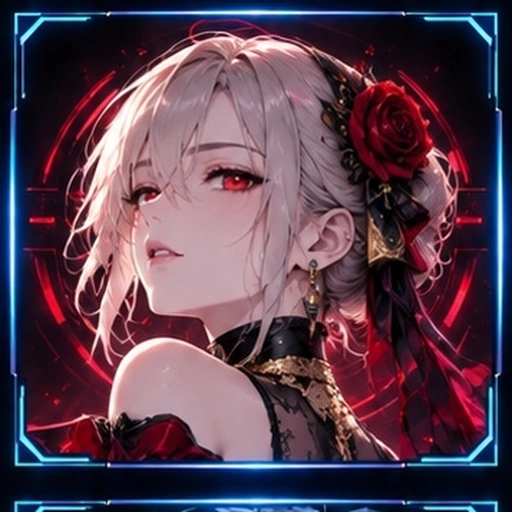
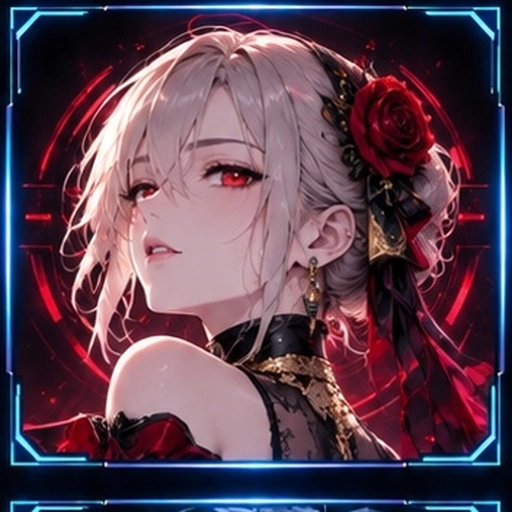
Add files via upload

diff --git a/README.md b/README.md
@@ -1,4 +1,10 @@
-NEXUS:ZERO v5.9
+NEXUS:ZERO v5.10
+
+- 12人のアバター素材を個別に再トリミングして位置ズレを修正
+- 3x4の選択グリッドで各アイコンの見え方が揃うよう調整
+- v5.9の対戦マッチング / ログイン演出 / PostgreSQL 機能は維持
+
+NEXUS:ZERO v5.10
 
 - スマホのアバター選択グリッドのズレを修正
 - 3列×4段を固定1:1で整列
